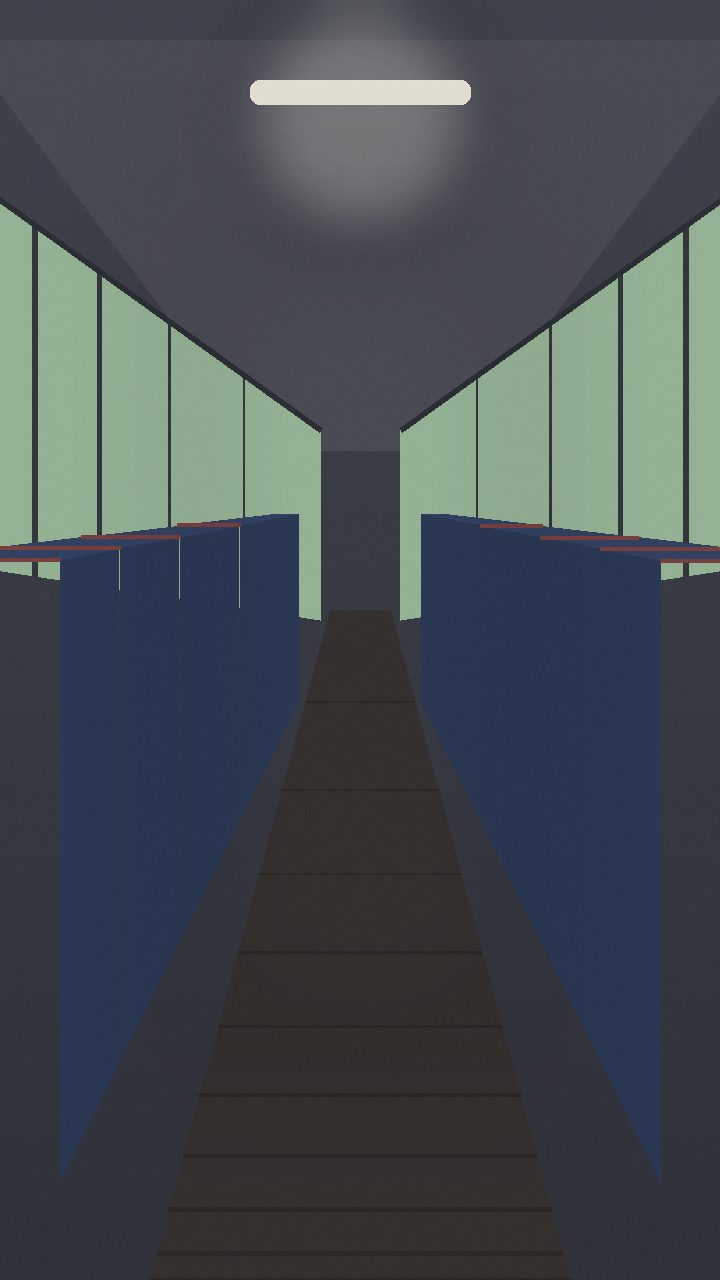
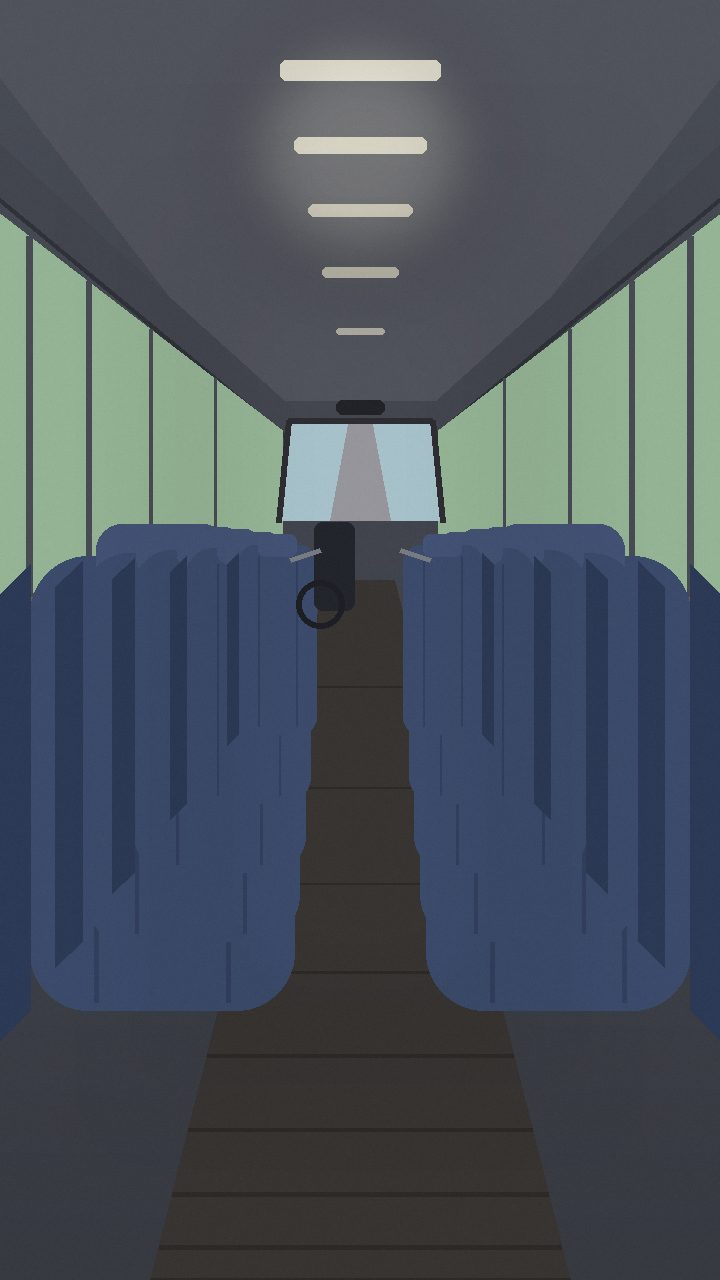
v4.0 chapter3 chapter3, bus interior fix

diff --git a/app/src/main/java/com/sekiguchi/soundnovel/MainActivity.kt b/app/src/main/java/com/sekiguchi/soundnovel/MainActivity.kt
@@ -71,6 +71,7 @@ class NovelView(ctx: Context) : View(ctx) {
     private var passInput = ""
     private var passError = false
     private var passTargetChapter = 1              // どの章を解錠しようとしているか
+    private var fromChapterSelect = false          // 章選択のロック章タップから来たか
     private val backToTitleRect = RectF()
 
     // ---- 状態 ----
@@ -411,7 +412,7 @@ class NovelView(ctx: Context) : View(ctx) {
             0 -> startChapter(0, false)                       // 第一章 最初から
             1 -> if (hasChapterSave(0)) startChapter(0, true) // 第一章 つづき
             2 -> { mode = MODE_CHAPTERS }                     // 章選択へ
-            3 -> { passTargetChapter = firstLockedChapter(); passInput = ""; passError = false; mode = MODE_PASSCODE }
+            3 -> { fromChapterSelect = false; passTargetChapter = firstLockedChapter(); passInput = ""; passError = false; mode = MODE_PASSCODE }
         }
     }
 
@@ -426,7 +427,7 @@ class NovelView(ctx: Context) : View(ctx) {
         if (isChapterUnlocked(i)) {
             startChapter(i, hasChapterSave(i))
         } else {
-            passTargetChapter = i; passInput = ""; passError = false; mode = MODE_PASSCODE
+            fromChapterSelect = true; passTargetChapter = i; passInput = ""; passError = false; mode = MODE_PASSCODE
         }
     }
 
@@ -440,10 +441,22 @@ class NovelView(ctx: Context) : View(ctx) {
     }
 
     private fun submitPasscode() {
-        val ch = chapters.getOrNull(passTargetChapter) ?: return
-        if (passInput == ch.passcode && ch.passcode.isNotEmpty()) {
-            prefs.edit().putBoolean("unlock_${ch.id}", true).apply()
-            startChapter(passTargetChapter, hasChapterSave(passTargetChapter))
+        // 入力コードに一致するロック章を探す（トップの共通入力に対応）
+        var matched = -1
+        for (i in chapters.indices) {
+            val c = chapters[i]
+            if (c.lockedByDefault && c.passcode.isNotEmpty() && passInput == c.passcode) {
+                matched = i; break
+            }
+        }
+        // 章選択から特定章の解錠を求められた場合はその章のみ許可
+        if (fromChapterSelect && matched != passTargetChapter) {
+            val c = chapters.getOrNull(passTargetChapter)
+            matched = if (c != null && passInput == c.passcode && c.passcode.isNotEmpty()) passTargetChapter else -1
+        }
+        if (matched >= 0) {
+            prefs.edit().putBoolean("unlock_${chapters[matched].id}", true).apply()
+            startChapter(matched, hasChapterSave(matched))
         } else {
             passError = true; passInput = ""
         }
@@ -640,8 +653,11 @@ class NovelView(ctx: Context) : View(ctx) {
         paintUi.typeface = Typeface.create(Typeface.SERIF, Typeface.NORMAL)
         paintUi.color = Color.argb(160, 225, 225, 225)
         paintUi.textSize = width * 0.032f
-        val chName = chapters.getOrNull(passTargetChapter)?.title ?: ""
-        canvas.drawText("$chName を解錠します", width / 2f, height * 0.18f, paintUi)
+        val subMsg = if (fromChapterSelect)
+            "${chapters.getOrNull(passTargetChapter)?.title ?: ""} を解錠します"
+        else
+            "正しいコードを入力すると章が開きます"
+        canvas.drawText(subMsg, width / 2f, height * 0.18f, paintUi)
 
         // 4桁ディスプレイ
         val boxW = width * 0.12f

diff --git a/README.md b/README.md
@@ -3,9 +3,10 @@
 Termux + GitHub Actions ビルド前提のサウンドノベルアプリ。
 外部依存ゼロ / XMLレイアウトなし / プログラマティックUI。
 
-## 収録内容 (v3.0)
+## 収録内容 (v4.0)
 - 第一章「透編」全34話（誰でも読める）
-- 第二章「篤史編」全28話（アナザーストーリー・パスコード解錠制）
+- 第二章「篤史編」全28話（パスコード 8147 で解錠）
+- 第三章「茜編」全27話（パスコード 3065 で解錠）
 - 1話につき背景1枚（全22種）+ 環境音（全9種）
 - タイプライター表示 / 6行ページ送り / 章ごとオートセーブ
 - アイコン: 夜のキャンプコテージ
